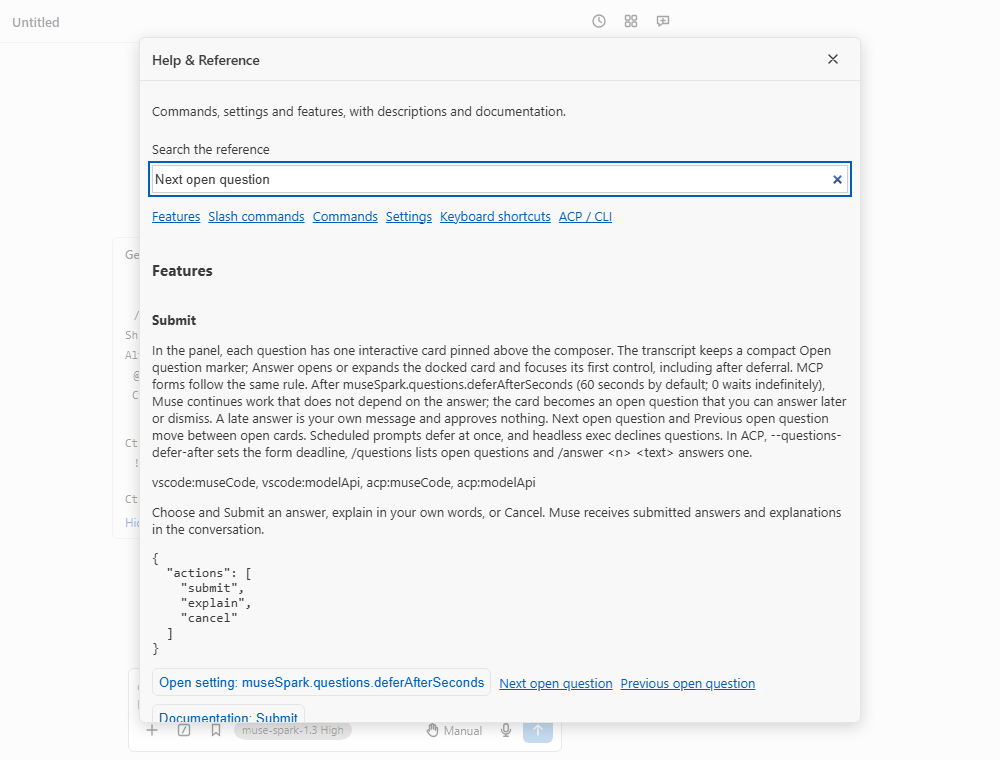
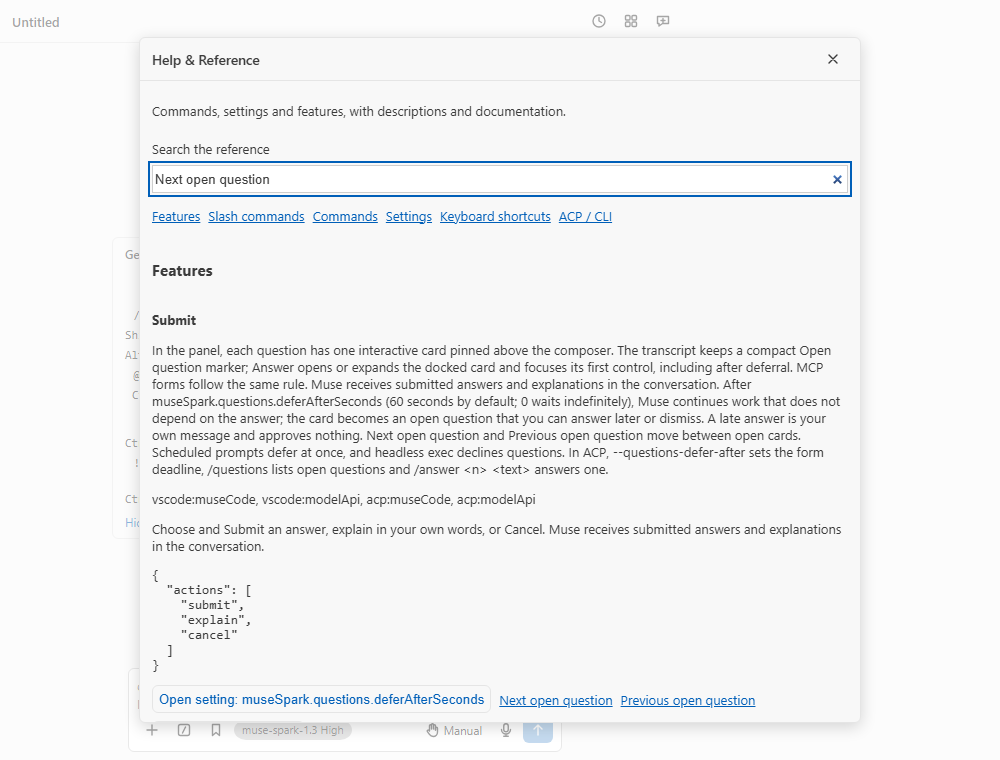
docs: retain question answer destination in pinned-card reference

Changed region(s): [[0.155, 0.4842, 0.837, 0.7263], [0.155, 0.8776, 0.744, 0.9684], [0.155, 0.7566, 0.248, 0.8474]]

diff --git a/src/shared/l10n/en.ts b/src/shared/l10n/en.ts
@@ -226,7 +226,7 @@ export const EN = {
   referenceQuestions:
     'Choose and Submit an answer, explain in your own words, or Cancel. Muse receives submitted answers and explanations in the conversation.',
   referenceQuestionsDeferral:
-    'In the panel, each question has one interactive card pinned above the composer. The transcript keeps a compact Open question marker; Answer opens or expands the docked card and focuses its first control, including after deferral. MCP forms follow the same rule. After museSpark.questions.deferAfterSeconds (60 seconds by default; 0 waits indefinitely), Muse continues work that does not depend on the answer; the card becomes an open question that you can answer later or dismiss. A late answer is your own message and approves nothing. Next open question and Previous open question move between open cards. Scheduled prompts defer at once, and headless exec declines questions. In ACP, --questions-defer-after sets the form deadline, /questions lists open questions and /answer <n> <text> answers one.',
+    'In the panel, each question has one interactive card pinned above the composer. The transcript keeps a compact Open question marker; Answer opens or expands the docked card and focuses its first control, including after deferral. MCP forms follow the same rule. Muse receives submitted answers and explanations in the conversation. After museSpark.questions.deferAfterSeconds (60 seconds by default; 0 waits indefinitely), Muse continues work that does not depend on the answer; the card becomes an open question that you can answer later or dismiss. A late answer is your own message and approves nothing. Next open question and Previous open question move between open cards. Scheduled prompts defer at once, and headless exec declines questions. In ACP, --questions-defer-after sets the form deadline, /questions lists open questions and /answer <n> <text> answers one.',
   referencePermissionLimits:
     'museCode:manual: Muse will ask before running commands; Muse Code edits workspace files without asking\nmuseCode:acceptEdits: On Muse Code, the same as Manual: Muse Code edits workspace files without asking and asks before running commands\nmuseCode:plan: Muse plans first; Muse Code refuses commands, but its file tools can still edit files without asking\nmuseCode:bypassPermissions: Muse will edit files and run commands without asking\nmodelApi:manual: Muse will ask for approval before each edit and each command\nmodelApi:acceptEdits: Muse will edit files without asking and ask before running commands\nmodelApi:plan: Muse will explore the code and present a plan before editing\nmuseCode (museSpark.museCodeAutoReviewer=false): Muse Code runs the commands it judges simple without asking and asks before the rest\nmuseCode (museSpark.museCodeAutoReviewer=true): Muse Code runs the commands it judges simple without asking; a reviewer may allow some others once, and you are asked about the rest\nmodelApi (museSpark.modelApiAutoReviewer=false): Muse will edit files without asking, except protected files, and ask before commands\nmodelApi (museSpark.modelApiAutoReviewer=true): Muse will edit files without asking, except protected files; a paid reviewer may allow some commands once, and you are asked about the rest\nThese Auto descriptions concern requests not settled by rules. The Model API reviewer additionally requires paid consent and budget admission. A declined or failed review leaves the decision to you. Ordinary ACP has neither reviewer.',
   referenceElicitationTitle: 'MCP elicitation',

diff --git a/docs/reference.md b/docs/reference.md
@@ -408,7 +408,7 @@ Commands: —. Settings: —. [Documentation](https://github.com/RandyNorthrup/m
 
 ### Submit
 
-In the panel, each question has one interactive card pinned above the composer. The transcript keeps a compact Open question marker; Answer opens or expands the docked card and focuses its first control, including after deferral. MCP forms follow the same rule. After museSpark.questions.deferAfterSeconds (60 seconds by default; 0 waits indefinitely), Muse continues work that does not depend on the answer; the card becomes an open question that you can answer later or dismiss. A late answer is your own message and approves nothing. Next open question and Previous open question move between open cards. Scheduled prompts defer at once, and headless exec declines questions. In ACP, --questions-defer-after sets the form deadline, /questions lists open questions and /answer &lt;n&gt; &lt;text&gt; answers one.
+In the panel, each question has one interactive card pinned above the composer. The transcript keeps a compact Open question marker; Answer opens or expands the docked card and focuses its first control, including after deferral. MCP forms follow the same rule. Muse receives submitted answers and explanations in the conversation. After museSpark.questions.deferAfterSeconds (60 seconds by default; 0 waits indefinitely), Muse continues work that does not depend on the answer; the card becomes an open question that you can answer later or dismiss. A late answer is your own message and approves nothing. Next open question and Previous open question move between open cards. Scheduled prompts defer at once, and headless exec declines questions. In ACP, --questions-defer-after sets the form deadline, /questions lists open questions and /answer &lt;n&gt; &lt;text&gt; answers one.
 
 Choose and Submit an answer, explain in your own words, or Cancel. Muse receives submitted answers and explanations in the conversation.
 
